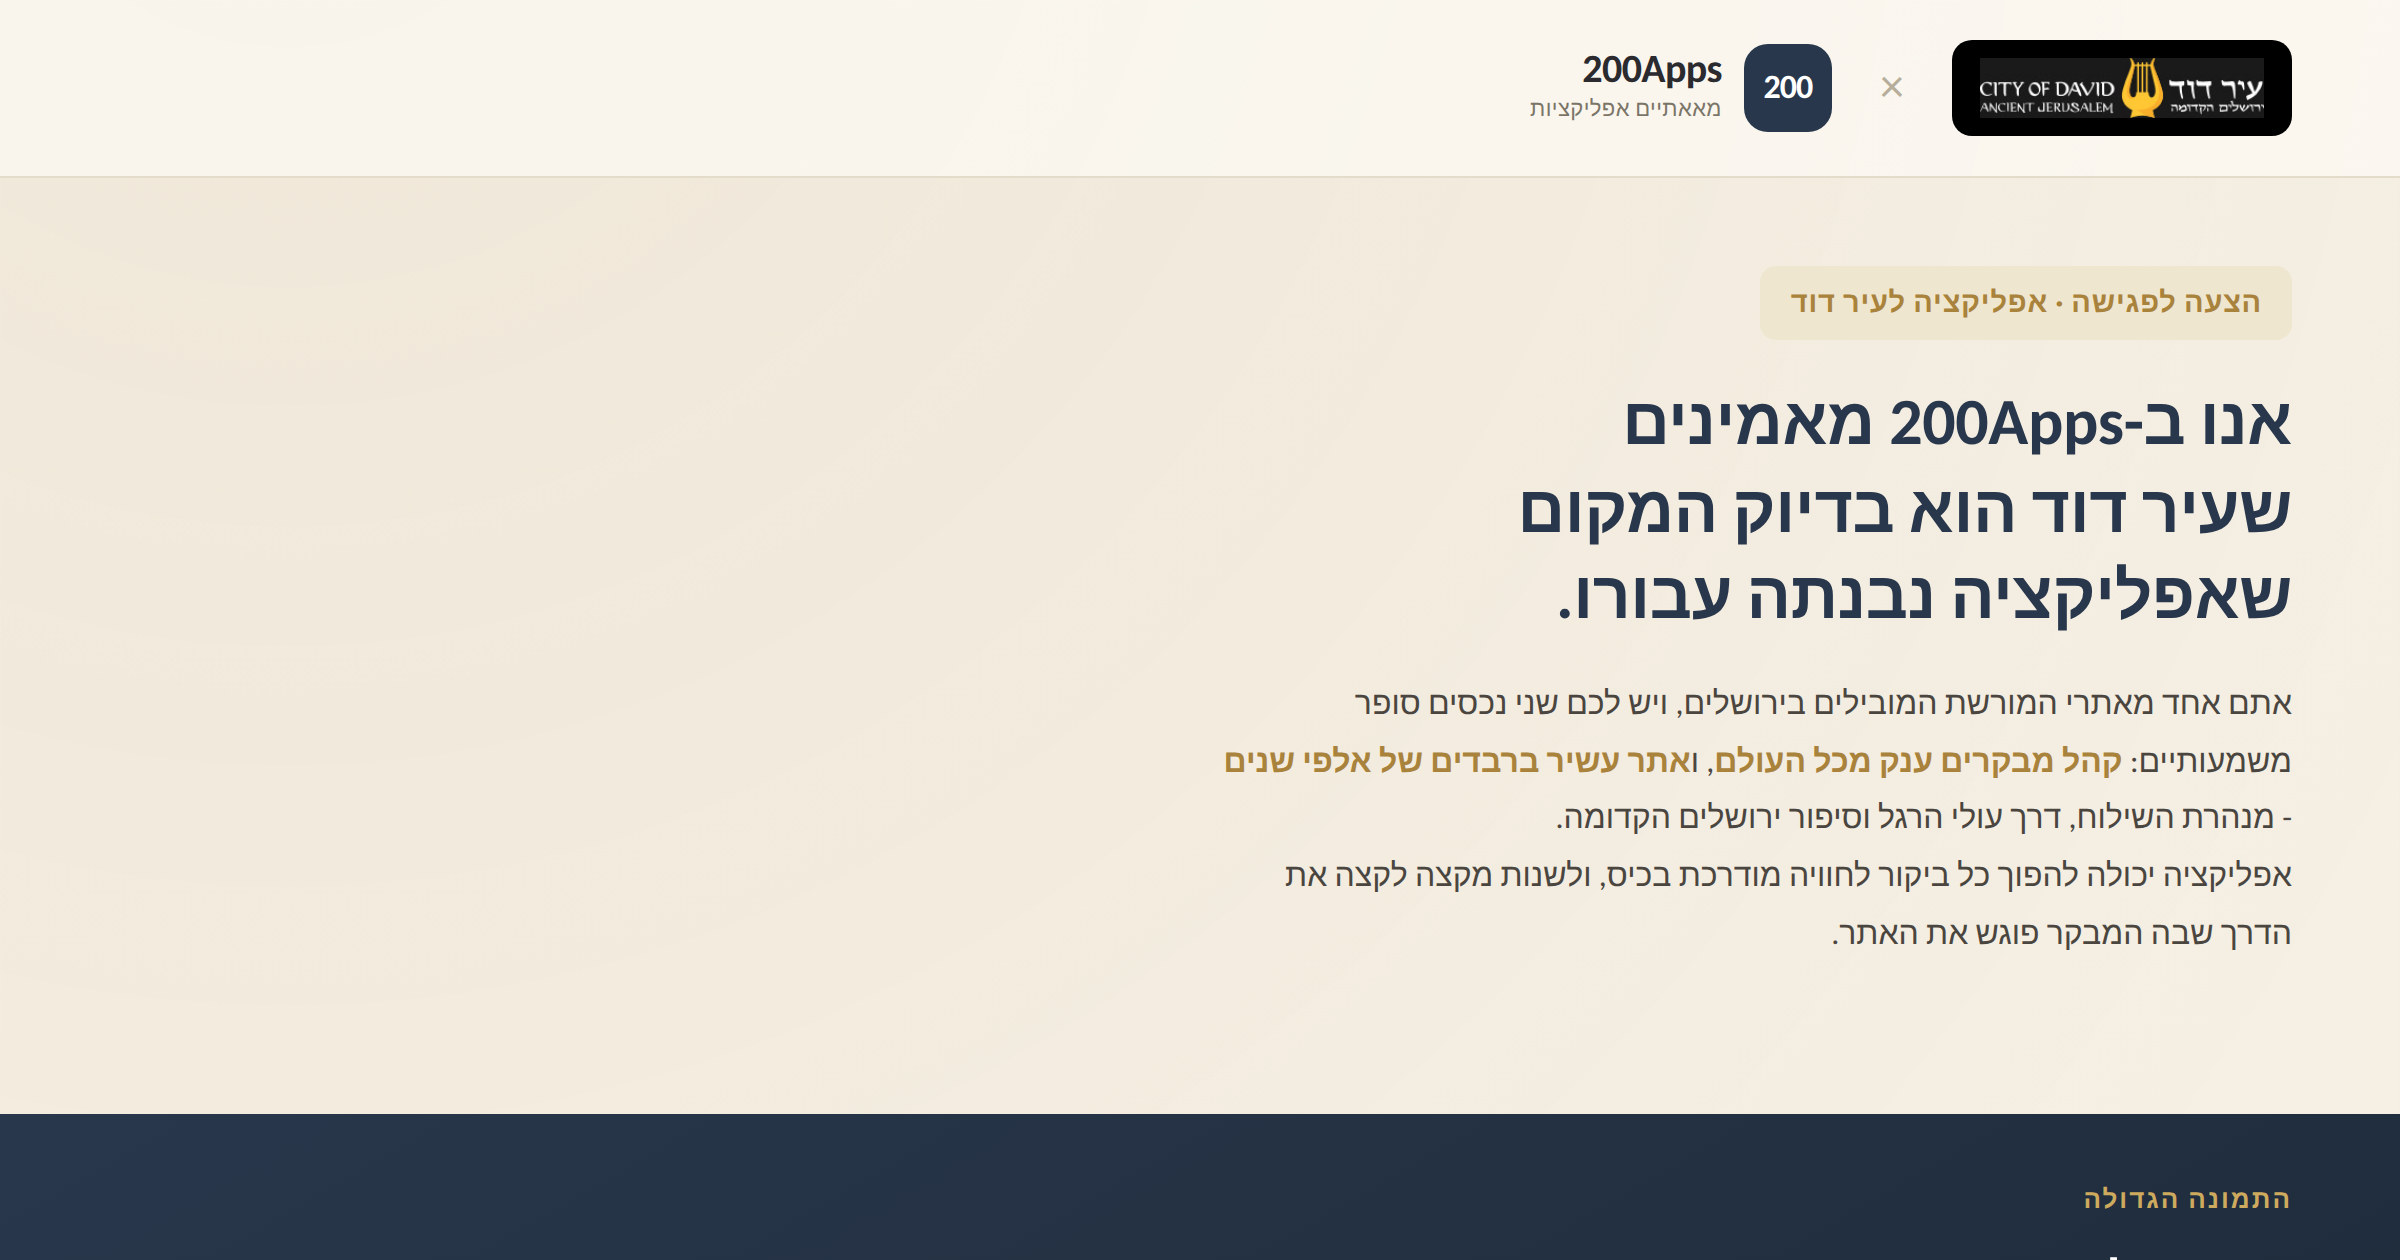
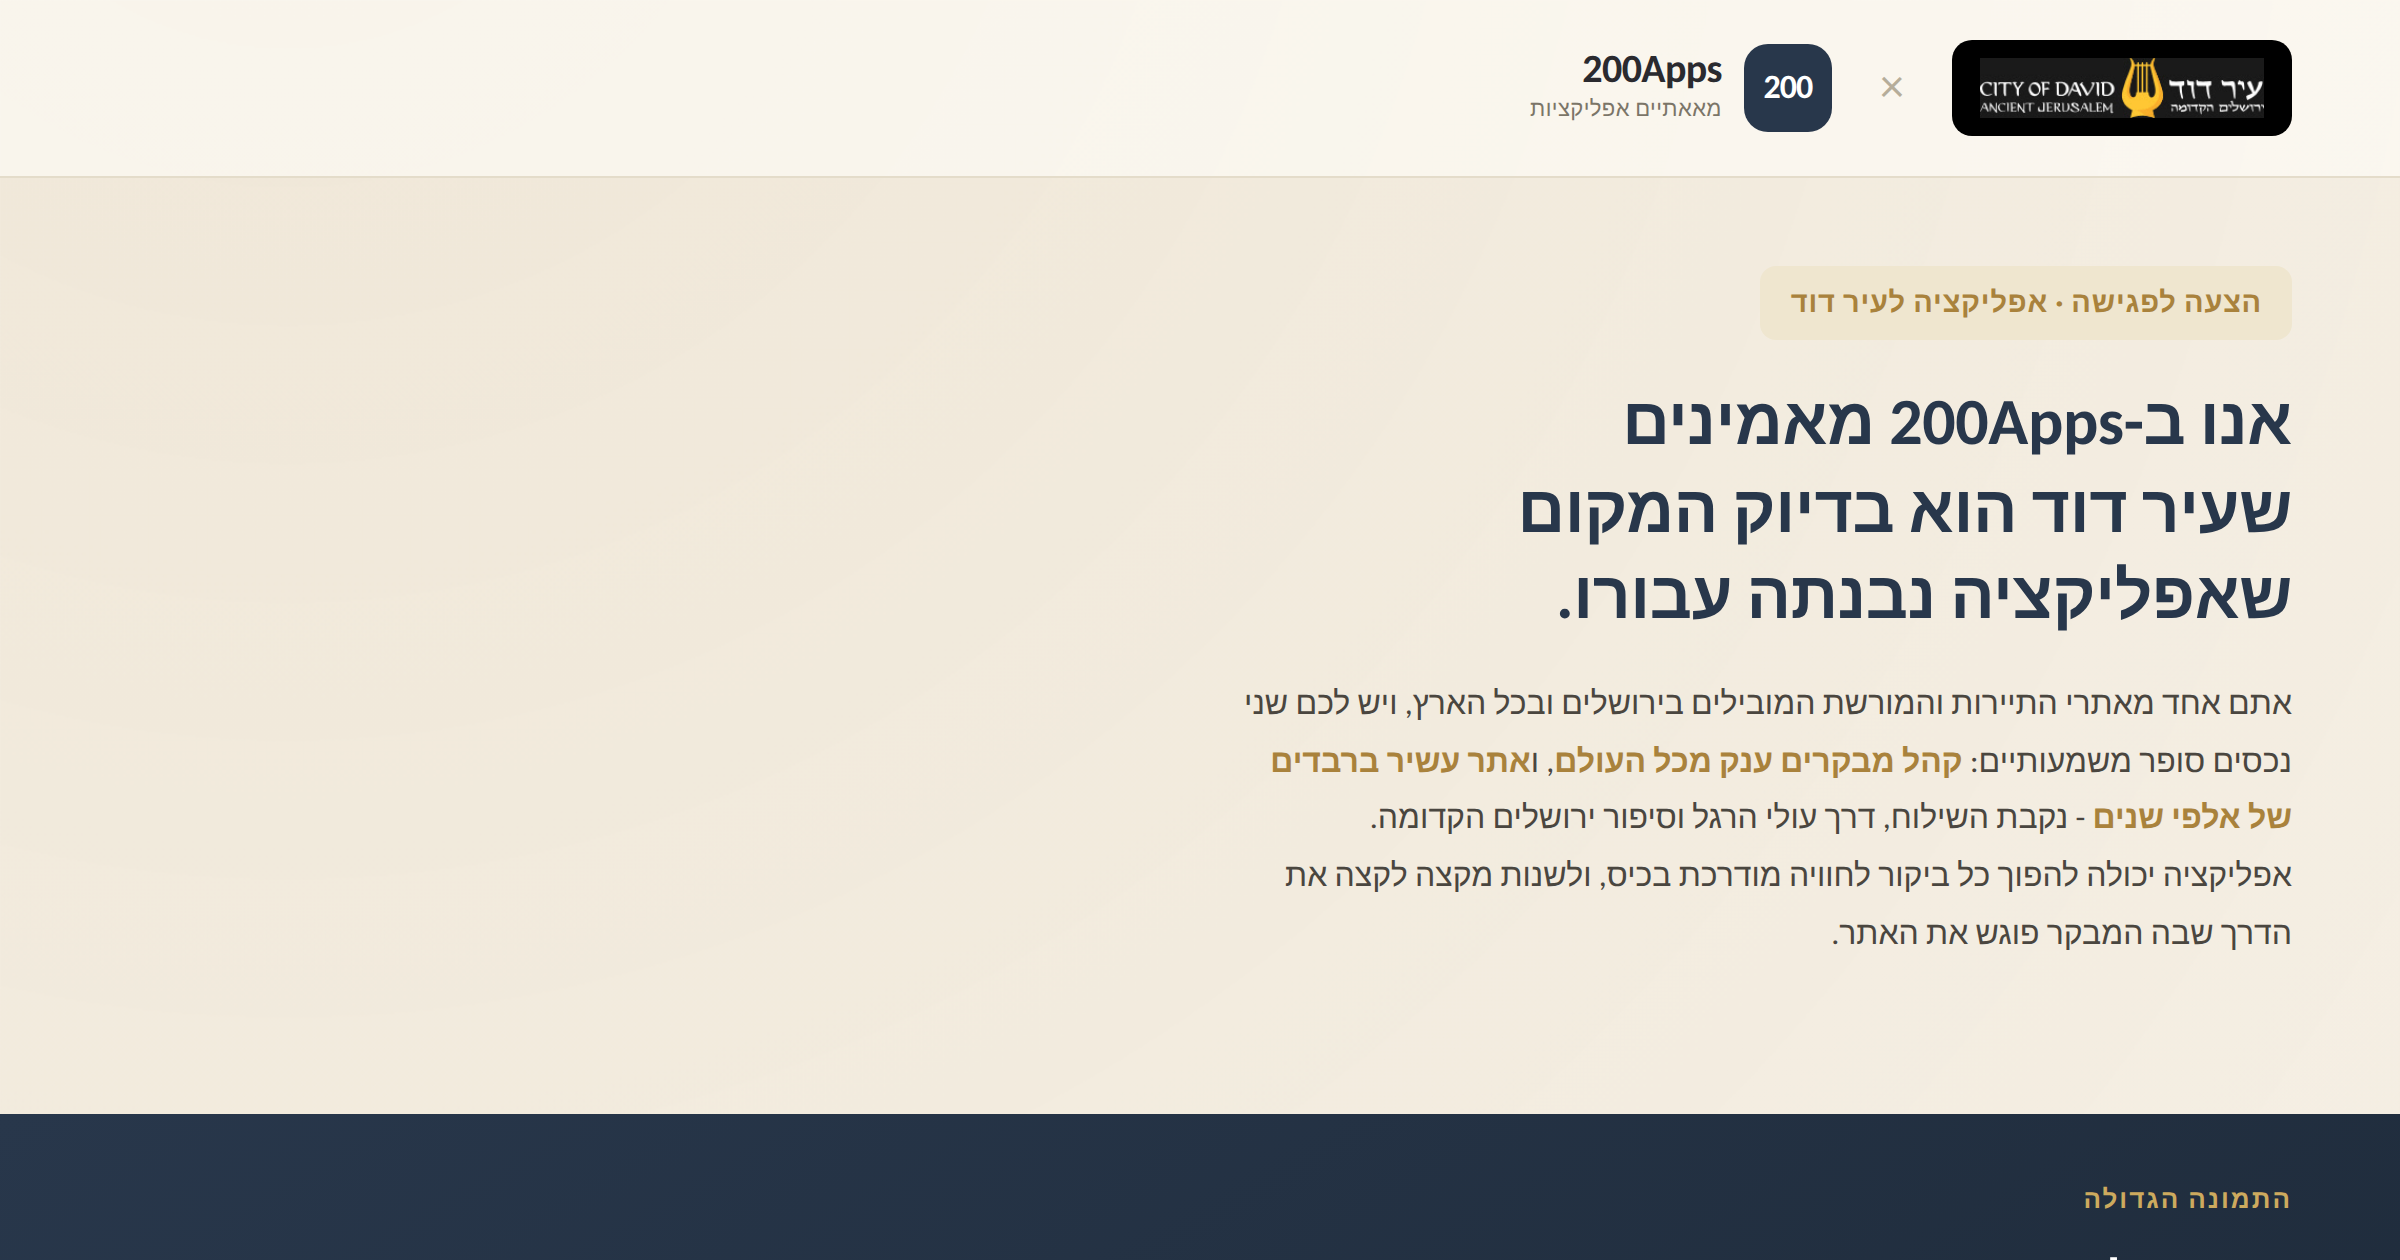
Deploy city-of-david static page

Changed region(s): [[0.5, 0.5262, 0.9688, 0.681]]

diff --git a/city-of-david/index.html b/city-of-david/index.html
@@ -190,8 +190,8 @@
       <span class="en">At 200Apps, we believe the City of David is exactly the place an app is built for.</span>
     </h1>
     <p class="lead">
-      <span class="he">אתם אחד מאתרי המורשת המובילים בירושלים, ויש לכם שני נכסים סופר משמעותיים: <b>קהל מבקרים ענק מכל העולם</b>, ו<b>אתר עשיר ברבדים של אלפי שנים</b> - מנהרת השילוח, דרך עולי הרגל וסיפור ירושלים הקדומה.<br>אפליקציה יכולה להפוך כל ביקור לחוויה מודרכת בכיס, ולשנות מקצה לקצה את הדרך שבה המבקר פוגש את האתר.</span>
-      <span class="en">You are one of Jerusalem's leading heritage sites, with two hugely valuable assets: <b>a vast audience of visitors from around the world</b>, and <b>a site rich with thousands of years of layers</b> - the Siloam tunnel, the Pilgrimage Road, and the story of ancient Jerusalem.<br>An app can turn every visit into a guided experience in the pocket, and transform, end to end, the way a visitor meets the site.</span>
+      <span class="he">אתם אחד מאתרי התיירות והמורשת המובילים בירושלים ובכל הארץ, ויש לכם שני נכסים סופר משמעותיים: <b>קהל מבקרים ענק מכל העולם</b>, ו<b>אתר עשיר ברבדים של אלפי שנים</b> - נקבת השילוח, דרך עולי הרגל וסיפור ירושלים הקדומה.<br>אפליקציה יכולה להפוך כל ביקור לחוויה מודרכת בכיס, ולשנות מקצה לקצה את הדרך שבה המבקר פוגש את האתר.</span>
+      <span class="en">You are one of the leading tourism and heritage sites in Jerusalem and across the country, with two hugely valuable assets: <b>a vast audience of visitors from around the world</b>, and <b>a site rich with thousands of years of layers</b> - the Siloam tunnel, the Pilgrimage Road, and the story of ancient Jerusalem.<br>An app can turn every visit into a guided experience in the pocket, and transform, end to end, the way a visitor meets the site.</span>
     </p>
   </div>
 
@@ -222,7 +222,7 @@
       <div class="pnum">1</div>
       <div>
         <h3 class="serif"><span class="he">אודיו-גייד רב-לשוני לסיור העצמאי</span><span class="en">A multilingual audio guide for the self-guided visit</span></h3>
-        <p><span class="he">הכניסה העצמאית שאתם כבר מוכרים הופכת לחוויה מודרכת מלאה.<br>אודיו-גייד מקצועי מלווה את המבקר לאורך מנהרת השילוח, דרך עולי הרגל וכל תחנה באתר, ב<b>עברית, אנגלית, ערבית וכל שפה שתבחרו</b>.<br>כל מבקר מקבל מדריך אישי, בקצב שלו, בלי תלות בזמינות של מדריך אנושי.</span><span class="en">The independent visit you already sell becomes a full guided experience.<br>A professional audio guide accompanies the visitor along the Siloam tunnel, the Pilgrimage Road and every stop, in <b>Hebrew, English, Arabic and any language you choose</b>.<br>Every visitor gets a personal guide, at their own pace, with no dependence on a human guide's availability.</span></p>
+        <p><span class="he">הכניסה העצמאית שאתם כבר מוכרים הופכת לחוויה מודרכת מלאה.<br>אודיו-גייד מקצועי מלווה את המבקר לאורך נקבת השילוח, דרך עולי הרגל וכל תחנה באתר, ב<b>עברית, אנגלית, ערבית וכל שפה שתבחרו</b>.<br>כל מבקר מקבל מדריך אישי, בקצב שלו, בלי תלות בזמינות של מדריך אנושי.</span><span class="en">The independent visit you already sell becomes a full guided experience.<br>A professional audio guide accompanies the visitor along the Siloam tunnel, the Pilgrimage Road and every stop, in <b>Hebrew, English, Arabic and any language you choose</b>.<br>Every visitor gets a personal guide, at their own pace, with no dependence on a human guide's availability.</span></p>
       </div>
     </div>
 
@@ -276,6 +276,7 @@
       <div class="sig">
         <div class="nm">חמי בן לביא · Hemi Ben-Lavi</div>
         <div>Head of Product Operations · 200Apps</div>
+        <div><span class="he">מדריך בכיר לשעבר בעיר דוד</span><span class="en">Former senior guide at the City of David</span></div>
         <div><a href="tel:+972544608119">054-460-8119</a> <button class="cp" title="העתק / Copy" onclick="copyText('054-460-8119')">⧉</button></div>
         <div><a href="mailto:hi@200apps.com">hi@200apps.com</a> <button class="cp" title="העתק / Copy" onclick="copyText('hi@200apps.com')">⧉</button></div>
       </div>
